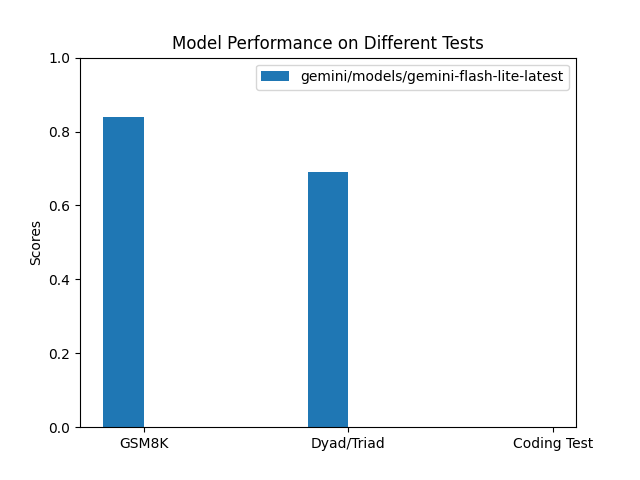
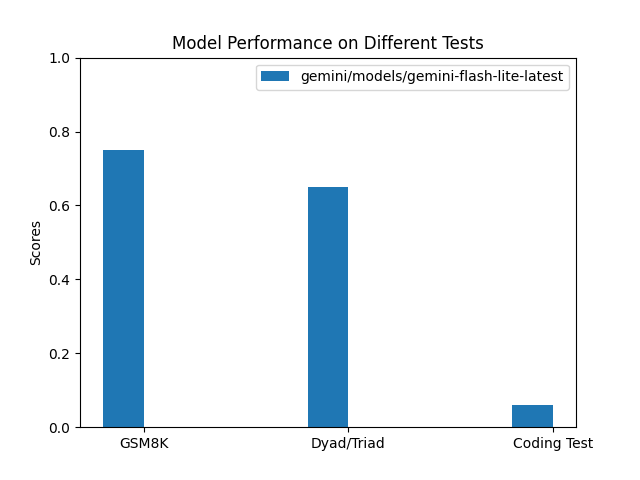
everything atleast runs

Changed region(s): [[0.1562, 0.2188, 0.25, 0.3125], [0.7812, 0.8438, 0.875, 0.9062], [0.4688, 0.3438, 0.5625, 0.4062]]

diff --git a/codetext/codetext.py b/codetext/codetext.py
@@ -1,6 +1,7 @@
 import re
 import random # FOr dummy function
 from generate import generate_response as generate_text
+from tqdm import tqdm
 
 # --- Imports from other files ---
 try:
@@ -24,7 +25,7 @@ except ImportError:
 
 
 # --- Helper to load smol.md ---
-def load_syntax_guide(filepath="smol.md"):
+def load_syntax_guide(filepath="codetext/smol.md"):
     """Loads the smol.md syntax guide."""
     try:
         with open(filepath, 'r') as f:
@@ -36,7 +37,7 @@ def load_syntax_guide(filepath="smol.md"):
 
 # --- Main Benchmark Function ---
 
-def running_codetext(llms: list):
+def run_codetext(llm: list):
     """
     Takes a list of LLM identifiers, runs the benchmark,
     and prints the results.
@@ -50,29 +51,29 @@ def running_codetext(llms: list):
     # 2. Initialize the code generator
     generator = ObfuscatedSmolGenerator(max_depth=3, max_statements_per_block=3)
     
-    print("--- Starting Smol Context Rot Benchmark ---")
+    # print("--- Starting Smol Context Rot Benchmark ---")
     
     # 3. Generate a test case
-    print("Generating smol code...")
+    # print("Generating smol code...")
     smol_code = generator.generate_program()
-    print("\n--- Generated Code ---")
-    print(smol_code)
-    print("------------------------")
+    # print("\n--- Generated Code ---")
+    # print(smol_code)
+    # print("------------------------")
 
     # 4. Get the ground truth from the interpreter
-    print("Interpreting code to get ground truth...")
+    # print("Interpreting code to get ground truth...")
     ground_truth = get_ground_truth(smol_code)
     
-    if "INTERPRETER_ERROR" in ground_truth:
-        print(f"\n--- BENCHMARK FAILED ---")
-        print(f"The interpreter failed on the generated code: {ground_truth}")
-        print("This is a bug in the generator or interpreter.")
-        print("--------------------------")
-        return
+    # if "INTERPRETER_ERROR" in ground_truth:
+    #     print(f"\n--- BENCHMARK FAILED ---")
+    #     print(f"The interpreter failed on the generated code: {ground_truth}")
+    #     print("This is a bug in the generator or interpreter.")
+    #     print("--------------------------")
+    #     return
 
-    print(f"\n--- Ground Truth Output ---")
-    print(ground_truth)
-    print("---------------------------")
+    # print(f"\n--- Ground Truth Output ---")
+    # print(ground_truth)
+    # print("---------------------------")
     
     # 5. Build the prompt for the LLM
     # This prompt contains the rules (syntax guide) and the code.
@@ -95,42 +96,39 @@ Only provide the final output ('truth', 'false', or a number) and nothing else.
 """
 
     # 6. Run the benchmark against each LLM
-    print("\n--- Running LLM Comparisons ---")
+    # print("\n--- Running LLM Comparisons ---")
     results = {}
+    # This is the real call
+    prediction = generate_text(llm_prompt, llm)
+    
+    clean_prediction = prediction.strip() 
+    
+    is_correct = (clean_prediction == ground_truth)
+    results[llm] = {
+        "prediction": clean_prediction,
+        "correct": is_correct
+    }
+    # return 0 or 1 based on correctness
+    score = 1.0 if is_correct else 0.0
+    return score
+
+def runs_codetext(llm: list) -> list:
+    sum =0.0
+    num_trials = 50
+    for _ in tqdm(range(num_trials)):
+        sum += run_codetext(llm)
+    average_score = sum / num_trials
+    return average_score
+
+
+def running_codetext(llms: list) -> list:
+    """
+    Runs the codetext benchmark on a list of LLMs.
+    Returns a list of scores (1.0 for correct, 0.0 for incorrect).
+    """
+    scores = []
     for llm in llms:
-        # The 'llm' is just an identifier (e.g., a string name)
-        # that we pass to our (dummy) generate_text function.
-        
-        # In a real scenario, 'llm' might be an API client object
-        # and you'd call `llm.generate(llm_prompt)`
-        
-        # We pass the ground truth to the *dummy* function for testing
-        # A real generate_text function would not need this.
-        # prediction = generate_text(llm_prompt + f"\n[Dummy Hint] Ground Truth: {ground_truth}", llm)
-        
-        # This is the real call
-        prediction = generate_text(llm_prompt, llm)
-        
-        # Clean the LLM's prediction (remove whitespace, etc.)
-        # A real version might need more complex parsing if the LLM
-        # adds "The output is..."
-        clean_prediction = prediction.strip() 
-        
-        is_correct = (clean_prediction == ground_truth)
-        results[llm] = {
-            "prediction": clean_prediction,
-            "correct": is_correct
-        }
-
-    # 7. Print results
-    print("\n--- Benchmark Results ---")
-    print(f"Generated Code:\n{smol_code}")
-    print(f"Ground Truth: {ground_truth}")
-    print("-------------------------")
-    for llm_name, result in results.items():
-        print(f"LLM: {llm_name}")
-        print(f"  Prediction: {result['prediction']}")
-        print(f"  Result: {'PASS' if result['correct'] else 'FAIL'}")
-    print("-------------------------")
-    return [0 for _ in llms]  # Dummy return to match number of LLMs tested
-
+        print(f"\nEvaluating LLM: {llm}")
+        result = runs_codetext(llm)
+        scores.append(result)
+    return scores

diff --git a/tempuslogic.py b/tempuslogic.py
@@ -10,12 +10,13 @@ def run_tests(llms, show_plot=False):
     # run tests
     print ("Running test on GSM8K...")
     # gsm = running_gsm8k(llms=llms)
-    gsm = [0.75 for _ in llms]  # placeholder scores
+    gsm = [0 for _ in llms]  # placeholder scores
     print ("Running test on Dyad/Triad...")
-    # dyad = running_dyad_triad(llms=llms)
-    dyad = [0.65 for _ in llms]  # placeholder scores
+    dyad = running_dyad_triad(llms=llms)
+    # dyad = [0 for _ in llms]  # placeholder scores
     print ("Running test on Coding Test...")
     coding = running_codetext(llms=llms)
+    # coding = [0 for _ in llms]
     # average scores
     avg = np.array(gsm + dyad + coding) / 3
     # avg = np.mean(np.array([gsm, dyad, coding]), axis=0)
